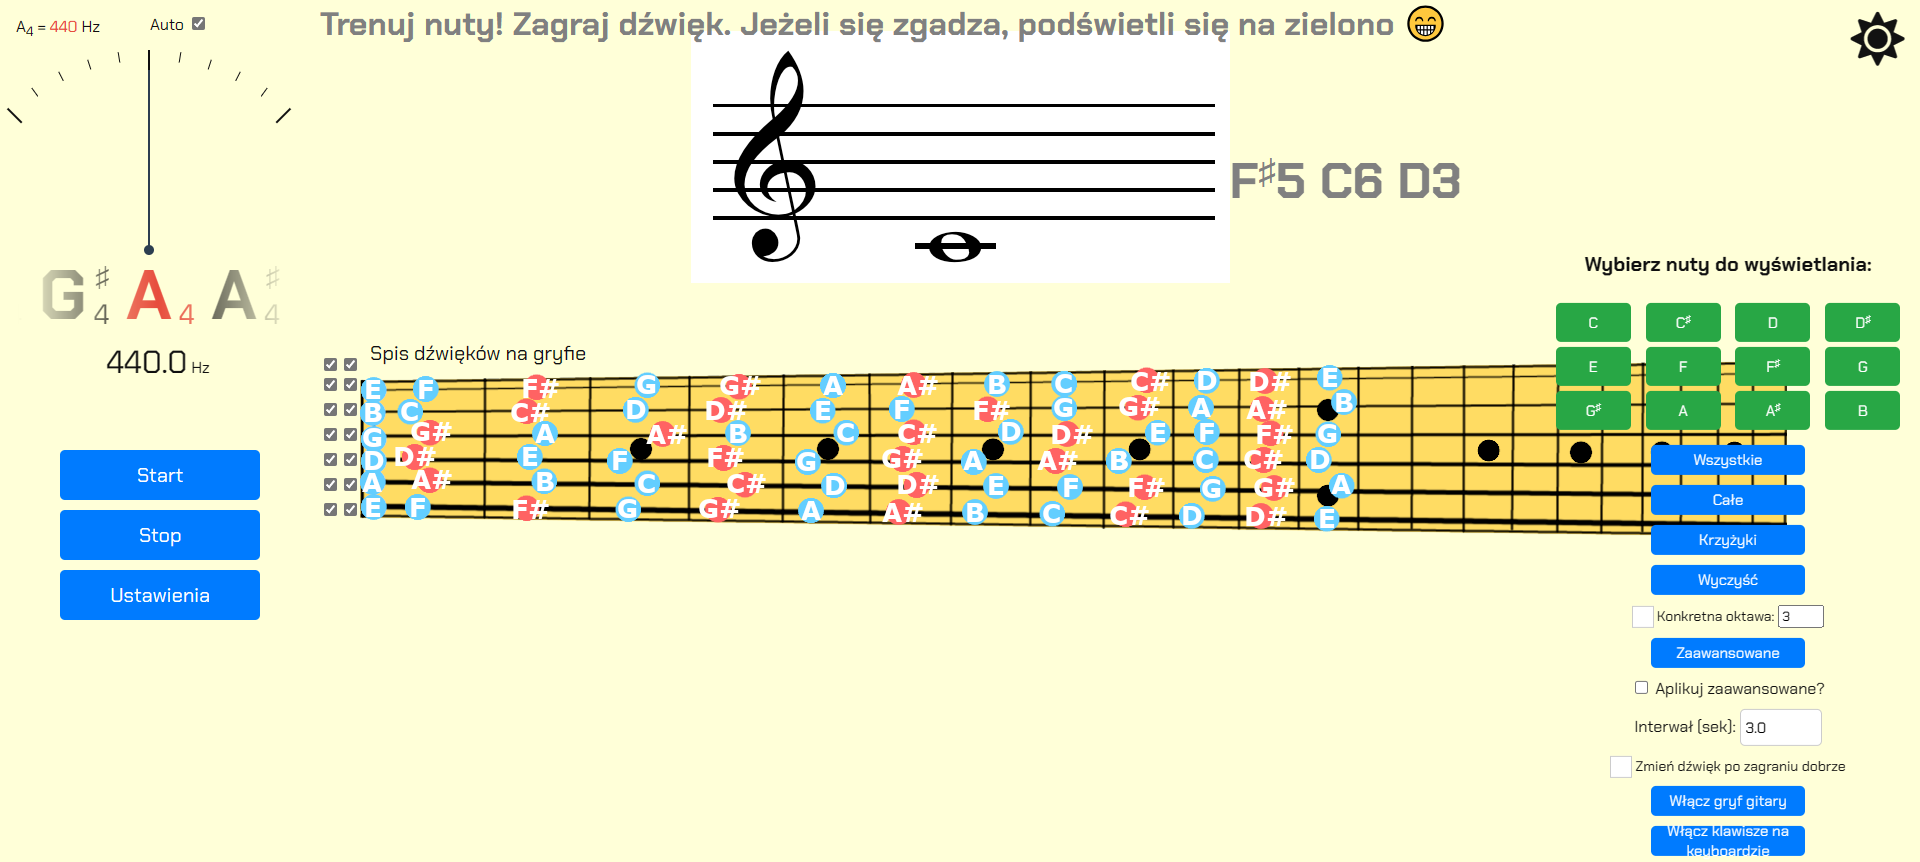
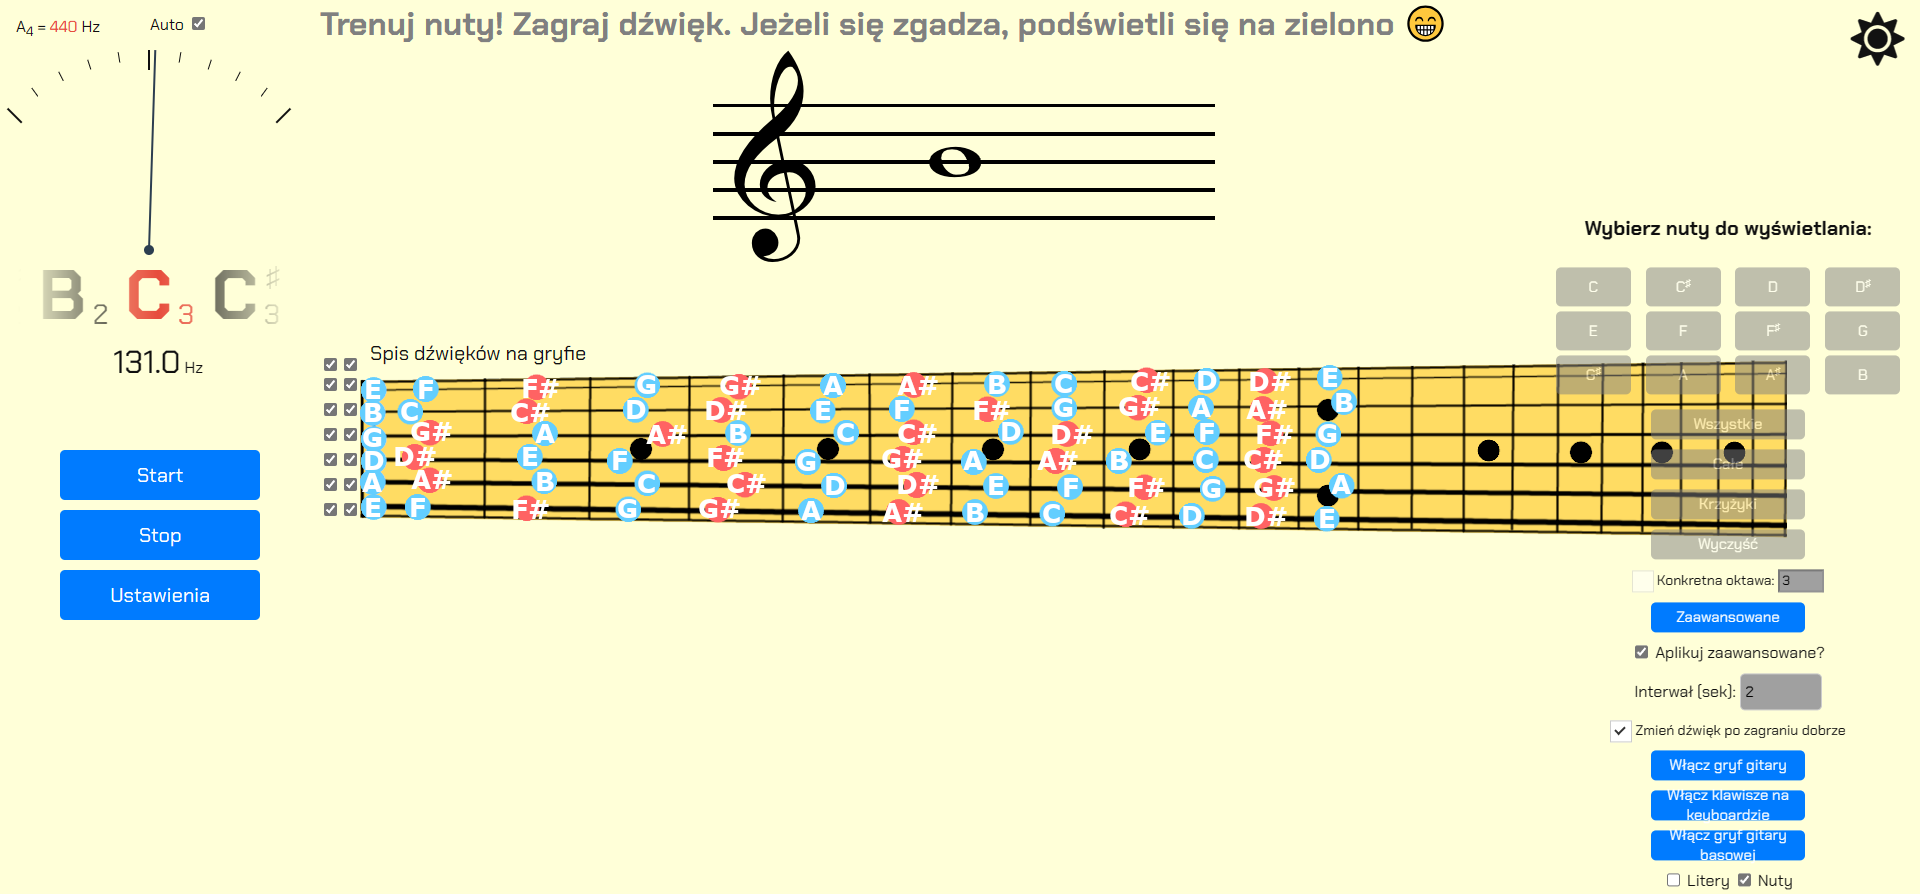
kolejna wersja note mastera

diff --git a/note_master/scripts/displaying-notes.js b/note_master/scripts/displaying-notes.js
@@ -4,6 +4,7 @@ let displayNotesInterval;
 let withoutInterval = false;
 let withInterval = false;
 let selectedNotes;
+var currentNoteToCompare;
 const CURRENT_NOTE_CLASS = 'current-note';
 const NEXT_NOTES_CLASS = 'next-notes';
 const PREVIOUS_NOTES_CLASS = 'previous-notes';
@@ -63,7 +64,7 @@ function initializeNextNotesArray() {
 
 function startDisplaying() {
     stopDisplayingNotes(); // if any notes are being displayed, stop it
-    setCurrentNoteNav("");
+    emptyCurrentNoteNav();
     setPreviousNotesNav("");
     initializeNextNotesArray(); // generate initial set of notes
 }
@@ -84,10 +85,18 @@ function startDisplayingNotes(interval) {
 
 // helper function to display next note, and move every note 1 place left
 function updateNotesDisplay() {
+
+    const lettersCheckbox = document.getElementById("letters");
+
+
     const nextNotes = getNextNotes();
     const currentNote = getCurrentNote();
     if (currentNote) { addNoteToPreviousNotes(currentNote) } // add current note to previous notes array if it exists
-    setCurrentNoteNav(nextNotes.shift()); // remove the first note from the next notes array and display it as the current note
+    if (lettersCheckbox.checked) {
+        setCurrentNoteNav(nextNotes.shift()); // remove the first note from the next notes array and display it as the current note
+    } else {
+        setCurrentImgNoteNav(nextNotes.shift());
+    }
     revertColorOfCurrentNote();
     nextNotes.push(generateRandomNote()); // add random note as last index of next notes
     setNextNotesNav(nextNotes.join(" ")); // update next notes nav
@@ -125,13 +134,61 @@ function getPreviousNotes() {
 
 
 function setCurrentNoteNav(note) {
+    currentNoteToCompare = note;
     const currentNoteNav = document.querySelector(`.${CURRENT_NOTE_CLASS}`);
     const noteHtml = note.replace('♯', '<span class="sharp-symbol">♯</span>');
     currentNoteNav.innerHTML = `<nav>${noteHtml}</nav>`;
 }
 
+
+function setCurrentImgNoteNav(note) {
+    const currentNoteNav = document.querySelector(`.${CURRENT_NOTE_CLASS}`);
+    currentNoteToCompare = note;
+    let noteHtml = note.replace('♯', '');
+    let imgSrc = `img/${noteHtml}note.png`;
+    if (noteHtml.length === 1) {
+        imgSrc = `img/${noteHtml}4note.png`;
+    }
+
+
+    // Create a new Image element
+    const img = new Image();
+
+    // Set up event handlers for loading and error
+    img.onload = function () {
+        // If the image loads successfully, set its source as the innerHTML
+        currentNoteNav.innerHTML = `<nav><img src="${imgSrc}"></img></nav>`;
+    };
+
+    img.onerror = function () {
+        // If the image fails to load, replace it with the note HTML
+        noteHtml = note.replace('♯', '<span class="sharp-symbol">♯</span>');
+        currentNoteNav.innerHTML = `<nav>${noteHtml}</nav>`;
+    };
+
+    // Set the src attribute to trigger the loading process
+    img.src = imgSrc;
+}
+
+
+function emptyCurrentNoteNav() {
+    const currentNoteNav = document.querySelector(`.${CURRENT_NOTE_CLASS}`);
+    if (lettersCheckbox.checked) {
+        setCurrentNoteNav("");
+    } else {
+        currentNoteNav.innerHTML = `<nav><img src="img/empty-staff.png"></img></nav>`;
+    }
+}
+
+
+
 function setNextNotesNav(string) {
     const nextNotesNav = document.querySelector(`.${NEXT_NOTES_CLASS}`);
+    if (notesCheckbox.checked) {
+        nextNotesNav.style.display = 'none';
+    } else {
+        nextNotesNav.style.display = 'block';
+    }
     const noteHtml = string.replaceAll('♯', '<span class="sharp-symbol">♯</span>');
     nextNotesNav.innerHTML = `<nav>${noteHtml}</nav>`;
 }
@@ -145,4 +202,5 @@ function setPreviousNotesNav(string) {
 function revertColorOfCurrentNote() {
     const currentNoteNav = document.querySelector(`.${CURRENT_NOTE_CLASS}`);
     currentNoteNav.style.color = '';
+    currentNoteNav.style.backgroundColor = '';
 }

diff --git a/note_master/scripts/select-instruments.js b/note_master/scripts/select-instruments.js
@@ -428,3 +428,76 @@ function selectViolinNotes() {
         }
     });
 }
+
+
+
+let allTrebleClefNotesButton = document.createElement("button");
+allTrebleClefNotesButton.textContent = "Klucz wiolinowy";
+allTrebleClefNotesButton.onclick = function () {
+    selectAllTrebleCleffNotes();
+};
+document.querySelector(".instrument-buttons").appendChild(allTrebleClefNotesButton);
+
+function selectAllTrebleCleffNotes() {
+    advancedSelectedNotes = [];
+    let notes = ['C4', 'C♯4', 'D4', 'D♯4', 'E4', 'F4',
+        'F♯4', 'G4', 'G♯4', 'A4', 'A♯4', 'B4', 'C5', 'C♯5', 'D5', 'D♯5', 'E5', 'F5', 'F♯5', 'G5',
+        'G♯5', 'A5', 'A♯5', 'B5', 'C6'];
+    let noteButtons = document.querySelectorAll("#noteButtonsContainer .advanced-note-button");
+    noteButtons.forEach(button => {
+        if (notes.includes(button.textContent)) {
+            button.classList.add("selected");
+            advancedSelectedNotes.push(button.value);
+        } else {
+            button.classList.remove("selected");
+        }
+    });
+}
+
+let allBassClefNotesButton = document.createElement("button");
+allBassClefNotesButton.textContent = "Klucz basowy";
+allBassClefNotesButton.onclick = function () {
+    selectAllBassCleffNotes();
+};
+document.querySelector(".instrument-buttons").appendChild(allBassClefNotesButton);
+
+function selectAllBassCleffNotes() {
+    advancedSelectedNotes = [];
+    let notes = ['C2', 'C♯2', 'D2', 'D♯2',
+        'E2', 'F2', 'F♯2', 'G2', 'G♯2', 'A2', 'A♯2', 'B2', 'C3', 'C♯3', 'D3', 'D♯3', 'E3', 'F3',
+        'F♯3', 'G3', 'G♯3', 'A3', 'A♯3', 'B3'];
+    let noteButtons = document.querySelectorAll("#noteButtonsContainer .advanced-note-button");
+    noteButtons.forEach(button => {
+        if (notes.includes(button.textContent)) {
+            button.classList.add("selected");
+            advancedSelectedNotes.push(button.value);
+        } else {
+            button.classList.remove("selected");
+        }
+    });
+}
+
+let allStaffNotesButton = document.createElement("button");
+allStaffNotesButton.textContent = "Wiolinowy i basowy";
+allStaffNotesButton.onclick = function () {
+    selectAllStaffNotes();
+};
+document.querySelector(".instrument-buttons").appendChild(allStaffNotesButton);
+
+function selectAllStaffNotes() {
+    advancedSelectedNotes = [];
+    let staffNotes = ['C2', 'C♯2', 'D2', 'D♯2',
+        'E2', 'F2', 'F♯2', 'G2', 'G♯2', 'A2', 'A♯2', 'B2', 'C3', 'C♯3', 'D3', 'D♯3', 'E3', 'F3',
+        'F♯3', 'G3', 'G♯3', 'A3', 'A♯3', 'B3', 'C4', 'C♯4', 'D4', 'D♯4', 'E4', 'F4',
+        'F♯4', 'G4', 'G♯4', 'A4', 'A♯4', 'B4', 'C5', 'C♯5', 'D5', 'D♯5', 'E5', 'F5', 'F♯5', 'G5',
+        'G♯5', 'A5', 'A♯5', 'B5', 'C6'];
+    let noteButtons = document.querySelectorAll("#noteButtonsContainer .advanced-note-button");
+    noteButtons.forEach(button => {
+        if (staffNotes.includes(button.textContent)) {
+            button.classList.add("selected");
+            advancedSelectedNotes.push(button.value);
+        } else {
+            button.classList.remove("selected");
+        }
+    });
+}

diff --git a/note_master/index.html b/note_master/index.html
@@ -14,6 +14,7 @@
   <link href="styles/mobile-style.css" rel="stylesheet">
   <link href="styles/fretboard.css" rel="stylesheet">
   <link href="styles/piano.css" rel="stylesheet">
+  <link href="styles/bass.css" rel="stylesheet">
   <link rel="stylesheet" href="https://cdnjs.cloudflare.com/ajax/libs/font-awesome/5.15.4/css/all.min.css">
   <link
     href="https://fonts.googleapis.com/css2?family=Chakra+Petch:ital,wght@0,300;0,400;0,500;0,600;0,700;1,300;1,400;1,500;1,600;1,700&display=swap"
@@ -97,6 +98,15 @@
     </label>
     <button class="display-instrument" id="toggleFretboardButton">Włącz gryf gitary</button>
     <button class="display-instrument" id="togglePianoButton">Włącz klawisze na keyboardzie</button>
+    <button class="display-instrument" id="toggleBassButton">Włącz gryf gitary basowej</button>
+    <nav>
+      <label class="note-type" for="letters">
+        <input type="checkbox" id="letters" checked> Litery
+      </label>
+      <label class="note-type" for="notes">
+        <input type="checkbox" id="notes"> Nuty
+      </label>
+    </nav>
   </div>
 
 
@@ -169,7 +179,11 @@
   </div>
 
   <div class="piano" id="piano-container" style="display: none;">
-    <img src="img/piano.png" alt="fretboard">
+    <img src="img/piano.png" alt="piano">
+  </div>
+
+  <div class="bass" id="bass-container" style="display: none;">
+    <img src="img/bass.png" alt="bass">
   </div>
 
 
@@ -234,6 +248,7 @@
   <script src="scripts/select-instruments.js"></script>
   <script src="scripts/fretboard.js"></script>
   <script src="scripts/piano.js"></script>
+  <script src="scripts/bass.js"></script>
 
   <script src="https://cdn.jsdelivr.net/npm/sweetalert2@9"></script>
   <script src="https://cdn.jsdelivr.net/npm/aubiojs@0.1.1/build/aubio.min.js"></script>

diff --git a/note_master/scripts/fretboard.js b/note_master/scripts/fretboard.js
@@ -7,6 +7,7 @@ const fretboardContainer = document.getElementById('fretboardContainer');
 toggleFretboardButton.addEventListener('click', function () {
     if (fretboardContainer.style.display === 'none') {
         pianoContainer.style.display = 'none'
+        bassContainer.style.display = 'none';
         fretboardContainer.style.display = 'block';
     } else {
         fretboardContainer.style.display = 'none';
@@ -20,12 +21,8 @@ toggleFretboardButton.addEventListener('click', function () {
 function handleCheckboxChange(checkboxId, imageId) {
     const checkbox = document.getElementById(checkboxId);
     const stringImage = document.getElementById(imageId);
-    console.log("Checkbox:", checkbox);
-    console.log("Image:", stringImage);
     checkbox.addEventListener('change', function () {
-        console.log("Checkbox state changed:", checkbox.checked);
         stringImage.style.display = checkbox.checked ? "inline" : "none";
-        console.log("Image display:", stringImage.style.display);
     });
 }
 

diff --git a/note_master/scripts/playing-notes.js b/note_master/scripts/playing-notes.js
@@ -4,8 +4,9 @@ document.addEventListener('noteChanged', function (event) {
     if (!pause) {
         let currentNotePlaying = withOctave ? event.detail.currentNotePlaying + event.detail.currentOctavePlaying : event.detail.currentNotePlaying;
         const currentNoteNav = document.querySelector(`.${CURRENT_NOTE_CLASS}`);
-        if (currentNoteNav.textContent.trim() === currentNotePlaying) {
+        if (currentNoteToCompare == currentNotePlaying) {
             currentNoteNav.style.color = 'green';
+            currentNoteNav.style.backgroundColor = '#8bffa8';
             if (withoutInterval) { pause = true; setTimeout(() => { updateNotesDisplay(); pause = false; }, 1000); }
             else if (!withInterval) { setTimeout(() => revertColorOfCurrentNote(), 1000); }
         }

diff --git a/note_master/scripts/settings.js b/note_master/scripts/settings.js
@@ -1,4 +1,6 @@
 let submitButton = document.getElementById('start-button');
+const lettersCheckbox = document.getElementById("letters");
+const notesCheckbox = document.getElementById("notes");
 
 let withOctave = false;
 
@@ -80,3 +82,19 @@ function toggleButtons() {
         }
     });
 }
+
+lettersCheckbox.addEventListener("change", function () {
+    if (this.checked) {
+        notesCheckbox.checked = false;
+    } else {
+        notesCheckbox.checked = true;
+    }
+});
+
+notesCheckbox.addEventListener("change", function () {
+    if (this.checked) {
+        lettersCheckbox.checked = false; 
+    } else {
+        lettersCheckbox.checked = true;
+    }
+});

diff --git a/note_master/scripts/bass.js b/note_master/scripts/bass.js
@@ -1,0 +1,12 @@
+const toggleBassButton = document.getElementById('toggleBassButton');
+const bassContainer = document.getElementById('bass-container');
+
+toggleBassButton.addEventListener('click', function () {
+    if (bassContainer.style.display === 'none') {
+        fretboardContainer.style.display = 'none';
+        pianoContainer.style.display = 'none';
+        bassContainer.style.display = 'block';
+    } else {
+        bassContainer.style.display = 'none';
+    }
+});

diff --git a/note_master/scripts/piano.js b/note_master/scripts/piano.js
@@ -4,6 +4,7 @@ const pianoContainer = document.getElementById('piano-container');
 togglePianoButton.addEventListener('click', function () {
     if (pianoContainer.style.display === 'none') {
         fretboardContainer.style.display = 'none';
+        bassContainer.style.display = 'none';
         pianoContainer.style.display = 'block';
     } else {
         pianoContainer.style.display = 'none';

diff --git a/note_master/styles/bass.css b/note_master/styles/bass.css
@@ -1,0 +1,11 @@
+.bass {
+    /* width: 20px; */
+    /* display: none; */
+    position: relative;
+}
+
+.bass img {
+    position: absolute;
+    /* top: 0; */
+    /* left: 40px; */
+}
